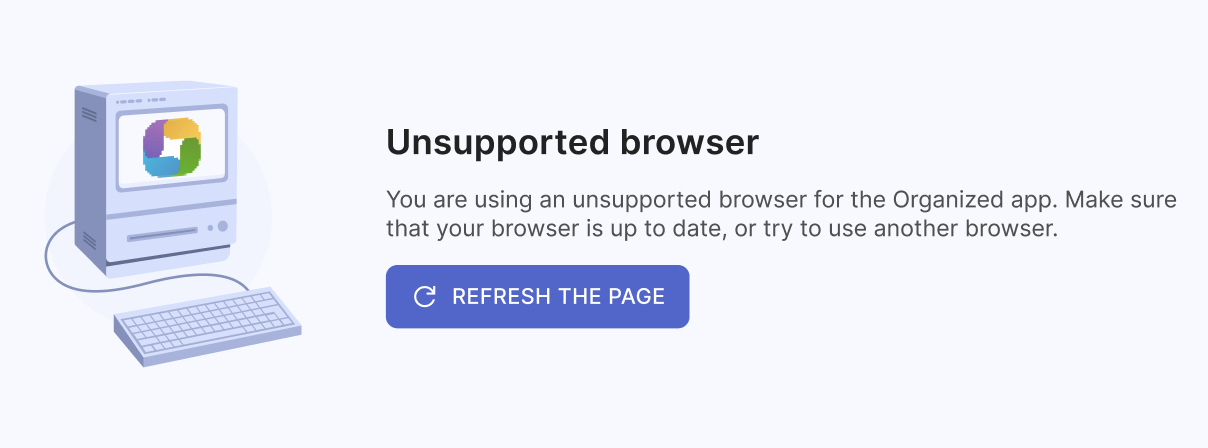
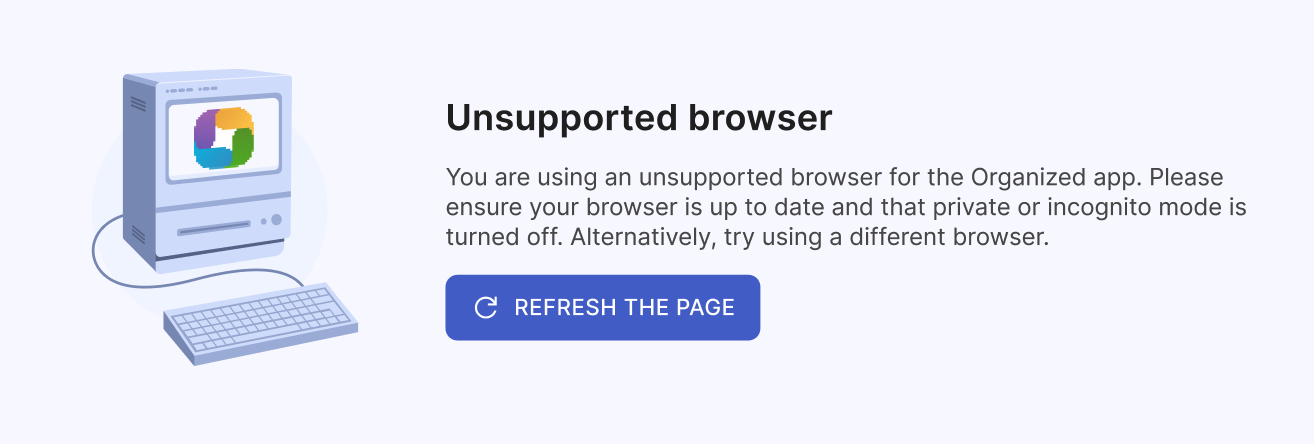
Incognito mode nuances (#315)

diff --git a/organized/blog/2024-05-11-digital-vs-print.md b/organized/blog/2024-05-11-digital-vs-print.md
@@ -1,0 +1,48 @@
+---
+title: Digital vs print meeting schedules&colon; Why not use both?
+description: Learn about the benefits of using both digital Organized app and print meeting schedules for your Jehovah's Witnesses congregation. Discover how the Organized app can help you create and publish schedules in the most convenient way possible.
+keywords: [Jehovah's Witnesses, JW, meeting schedules, digital tools, print schedules, organized app, convenient jw app, stress-free scheduling, digital theocratic tools, print schedules, jw print templates, Organized app]
+slug: digital-vs-print-meeting-schedules-in-organized
+tags: [Meeting scheduling, Print templates]
+hide_table_of_contents: false
+---
+
+![](./images)
+
+### Digital and print meeting scheduling approaches
+
+For a long time, Jehovah's Witnesses have used paper to organize their meetings and schedules and even the whole preaching work worldwide. It was the best way to keep things in order before computers were around. One brother would make the schedule, fill it out or print it, and then put it up on the information board. But now, many brothers are using digital tools to make scheduling easier. Some use spreadsheets, computer programs, or mobile apps, while others still prefer pen and paper. Our team created the Organized app to bring together the best of both worlds – digital and paper.
+
+In this article, you'll learn about the benefits of using both digital and print meeting schedules and how the Organized app can help you do just that in the most convenient way possible. So, keep reading to discover how to make your meeting scheduling more efficient and stress-free!
+
+<!-- truncate -->
+
+### Why not use the best of both methods?
+
+The Organized app is designed to assist responsible brothers in creating and managing meeting schedules, duties and another responsibilities for their congregation. With its user-friendly interface, the app makes it easy for you to create midweek and weekend meeting schedules, either directly in the app or by filling out assignments that you've already created on paper. The Autofill feature allows you to quickly fill out new data, view everything at a glance, and access it from anywhere, making it a convenient tool for busy brothers on-the-go.
+
+But what sets Organized apart is its flexibility in supporting both digital and print approaches. We understand that some brothers prefer the traditional paper method, while others prefer the convenience of digital apps. That's why we've made it possible for you to use both approaches, without having to sacrifice one for the other!
+
+![](./images)
+
+### How exactly does it work?
+
+After you've made your schedule in the app, the Organized app provides you with both options, again. You can first **publish it for all Organized app users** in your congregation. This way, they can easily see it, check for updates, and be prepared for their meeting assignments and duties. Also, you can **export beautiful print-ready schedules** for your congregation. Afterwards, you can either send it out as PDF or print and put it onto an information board in your Kingdom Hall. The app has professionally designed templates for midweek and weekend meetings (official S-140 one as well as custom meeting templates designed by our team), so you can create a polished and neat schedule with ease. And the best part is that you don't have to fill out the PDF print templates separately. The Organized app does it automatically, saving you time and effort.
+
+**With the Organized app, you don't have to choose between digital and print**. Instead, you can let other brothers and all publishers in your congregation benefit from the approach that works best for them. By using both digital and print meeting schedules, everyone in your congregation can stay informed and prepared for their assignments, no matter their preference. The app is designed to help responsible brothers first, but it also allows all congregation members to benefit from having all the schedules in one convenient place.
+
+### Export anything in a click
+
+Organized allows you to export all your congregation's data into PDF print-ready formats with just a click. This includes not only midweek and weekend meeting schedules, but also all key forms used by every congregation in the organization of Jehovah's Witnesses. For example, you can export Territory Map Card (S-12), Territory Assignment Record (S-13), Congregation’s Publisher Record (S-21), Public Talk Record (S-99), and even more forms are in development. 
+
+Also, Organized app has various templates for different aspects of a congregation life: Hall cleaning schedule, Meetings for field service, Meeting duties, Upcoming events, Field service groups, Circuit overseer visit schedule, different variations of meeting schedules and more! All of them are easy to read and are as user-friendly as our app, ensuring you have beautiful printed schedules, announcements, and other important information without spending too much of your time.
+
+This approach allows you to easily use Organized and export all the data records in a few easy clicks, meaning that we don't lock you inside the Organized app, but allow you to flexibly manage all the data of your congregation, and then save or print it if you want. Use the app in a way that suits you and your congregation the best! So feel free to take a look at the app without fear loosing or of being unable to later export the data.
+
+![](./images)
+
+### Organized App: The perfect digital tool which is print-friendly
+
+The Organized app is a modern, all-in-one solution that focuses on security, convenience, and ease-of-use. As easy to schedule as it is easy to view all the meeting schedules and another important information. Organized is designed to assist responsible brothers in managing meeting schedules _(and other tasks like field service groups managements, ministry and congregation reports, and public witnessing, territory management in development)_, while also providing a convenient way for all congregation members to stay informed and prepared. 
+
+Hundreds of congregations worldwide are already using Organized, and brothers and publishers love how it helps them streamline their tasks and work more efficiently. Why not give it a try and see the many benefits of the app for yourself? You can even try the Organized app without registering by visiting and exploring its features and mock data, so you don't need to spend any time for preparation to try the app out. If you have any questions, feel free to read our [other articles](https://guide.organized-app.com/blog) or our [How to use guide](https://guide.organized-app.com/). Or, send us an email, and we'll be happy to help!

diff --git a/organized/blog/2024-05-03-midweek-scheduling.md b/organized/blog/2024-05-03-midweek-scheduling.md
@@ -1,0 +1,59 @@
+---
+title: Midweek meeting scheduling with Organized – easy, simple, fast!
+description: Discover how the Organized  app helps Jehovah's Witnesses congregations improve midweek meeting planning, saving time and reducing stress. All routine work is automized, giving you more flexibility and free time.
+keywords: [Jehovah's Witnesses, Midweek meetings, Meeting planning, Theocratic app, Organized app, Meeting cheduling, Automation, jw.org fetch, epub parser]
+slug: midweek-meeting-scheduling-with-organized
+tags: [Midweek meetings, Meeting scheduling]
+hide_table_of_contents: false
+---
+
+![Scheduling meetings in Organized app](./images/scheduling.jpeg)
+
+### Scheduling meetings: An important privilege
+
+Scheduling our Jehovah's Witnesses midweek meetings is an important and demanding task that requires care and attention to detail! Explore how the Organized app can help you create well-planned midweek meeting schedules with ease and efficiency, resulting is better experience for your congregation. Read on to find out more!
+
+<!-- truncate -->
+
+Every brother who has done this type of appointemt, know how important to create schedules well in advance to give meeting participants enough time for preparation and how sometimes it is challenging to take into account to many small nuances, like another assignments or duites of the same person during the same day or personal requests regarding student assignments. 
+
+To help "Our Christian Life and Ministry" meeting overseers and their assistants ease this process, the Organized app has been developed as a multi-platform scheduling app for Jehovah's Witnesses. It makes it simple for brothers to schedule meetings, as well as easy for publishers to view their assignments and always have the most up-to-date schedules. 
+
+Let's see how Organized app can help you to make midweek meeting planning more efficient and free up some extra time for another important tasks in theocratic life and congregation.
+
+### Sometimes challanges may arise
+
+Meeting scheduling is a precious responsibility given by Jehovah and an opportunity to serve our congregations. However, we may encounter challenges due to imperfections in ourselves and the current world around us. One of the main challenges of creating our meeting schedules is the time it takes – often 2-3 hours or more each month. This involves carefully selecting the right person for each assignment, checking for assignment conflicts, copying and pasting part titles from our workbook from jw.org or JW Library, and calculating time allocations. In addition, filling out and printing PDF templates, as well as Meeting assignment forms (S-89), require additional effort. As a result, many congregations have a separate brother, known as the assistant of the midweek meeting overseer, who helps with these tasks. This assistance includes filling out information and distributing meeting assignment forms, adding a few more hours of work each month.
+
+:::tip
+
+What if we told you that you can reduce your monthly meeting scheduling process from 3-5 hours to just 10-15 minutes, including double-checks and manual adjustments?
+
+**The Organized App makes this possible, all while offering improved quality and flexibility!**
+
+:::
+
+### Organized is right here to help you
+
+This is where the Organized Jehovah's Witnesses app comes in to make scheduling better for everyone in your congregation! The app automatically fetches meeting program materials from jw.org (or alternatively .epub files), filling in all the meeting parts and songs for you, so you don't have to copy and paste each one manually. It also calculates the time allocation for each part, eliminating the need for manual calculations.
+
+![Automatic meeting program parts fetching from jw.org and epub files](./images/jw.org-fetch-organized.gif)
+
+With flexible assignment setup, you can customize assignments for each person according to their skills and personal requests. The intelligent auto-assign feature ensures fair meeting assignments based on each person's past assignments and meeting part types, warning you about all potential conflicts. Once the schedule is created, you can publish it for other Organized users to see their upcoming meeting assignments in the app, export auto-generated PDF meeting schedules (S-140), and meeting assignment forms (S-89). Finally, you can put the schedule on the information board and distribute the assignment forms to students in either printed or digital form.
+
+Here's how the Organized app assists during the whole scheduling process step-by-step: from fetching all the meeting information from jw.org, right through to generating the final print-ready schedule in PDF format.
+
+![Assignments flexibility](./images/assignments-flexibility.jpeg)
+
+### Real benefits, real difference
+
+By using the Organized app, everyone involved in your congregation can enjoy numerous benefits!
+
+For example, the midweek meeting overseer for planning can spend less time on routine copy-paste work and maintain a more balanced approach. His assistant can work more efficiently and reduce manual tasks. Appointed brothers and meeting students receive better thought-out assignments, get notified earlier, and even can view their assignments in the app, allowing them to prepare better and experience less stress.
+
+### Sounds exciting? Are you eager to try it?
+
+Experience how Organized enables you to plan midweek meetings for your Jehovah's Witnesses congregation more efficiently! [Try the Organized app in test mode](https://test.organized-app.com/) without even registering and explore its features using pre-filled dummy data. The app is designed to be a helpful solution that improves your workflow and saves time for other important things. 
+
+Discover all the helpful features of Organized and see how it can improve theocratic life of your congregation!
+

diff --git a/organized/docs/troubleshooting/common-errors.md b/organized/docs/troubleshooting/common-errors.md
@@ -24,7 +24,11 @@ This means that the schedules are still being prepared by the responsible brothe
 
 ![Unsupported browser](./img/unsupported-browser.png)
 
-You might be using using an unsupported browser or very outdated version. Please check if your browser is up to date, or try to use another browser to see if this solves your problem.
+You might be using an unsupported browser or a very outdated version. Please check if your browser is up-to-date, or try using another browser to see if this solves your problem.
+
+Also, be aware that private or incognito modes can prevent the app from locally storing necessary data. The Organized app needs to store some data in your browser to work properly, and private modes prevent this. For example, Private mode in Firefox or Incognito mode in Chromium-based browsers may not let Organized save the data on your device, making it impossible for the app to function.
+
+Don't worry – we are not talking about the Organized team getting your data. It's only for the Organized app to work on your local device and store needed information inside your browser without sending the data outside. This data is only used for you to have all your congregation info, schedules, and assignments, and to keep the app running smoothly. All your congregation data is safe and is not shared with anyone else.
 
 ## JavaScript is disabled
 
